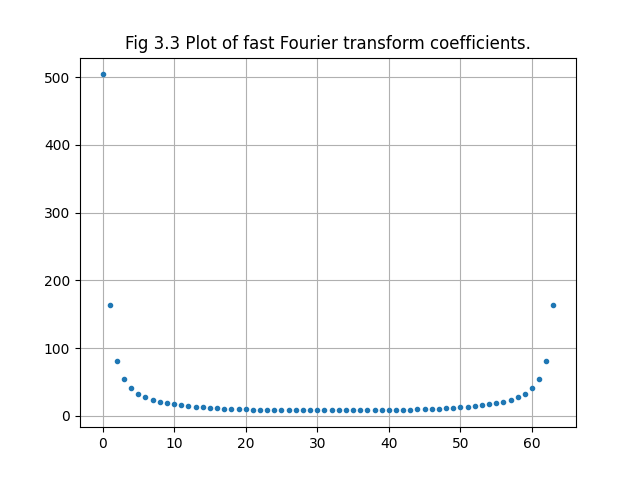
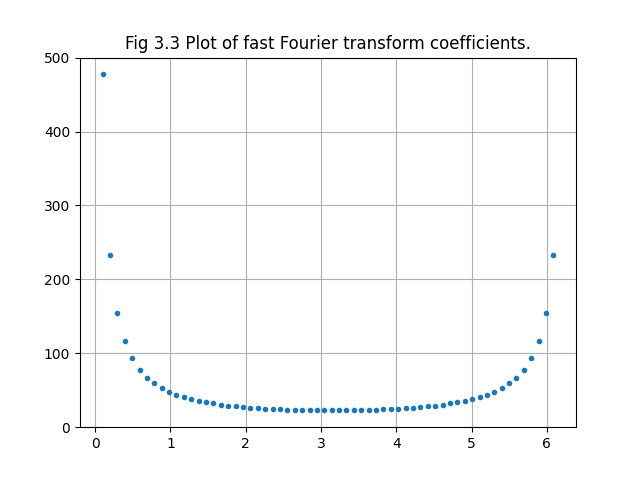
time range:0~2pi

diff --git a/fft_math.py b/fft_math.py
@@ -43,16 +43,16 @@ print(fft) # tensor([ 7.+0.j,  0.-1.j, -3.+0.j,  0.+1.j])
 
 ### Example 3 : Experiment Example 3.5 in [A First Course in Wavelets with Fourier Analysis-Wiley], Albert Boggess, 2009
 def function(t) :
-    return t + t^2
+    return t + t**2
 
 N = 64
-timepoints = torch.arange(N)
+timepoints = torch.arange(0, 2*np.pi, 2*np.pi/N, dtype=float)
 signal = torch.tensor([function(k) for k in timepoints])
 
-fft = torch.fft.fft(signal) / 8
+fft = torch.fft.fft(signal)
 fft_magnitude = abs(fft)
 
 plt.title("Fig 3.3 Plot of fast Fourier transform coefficients.")
-plt.plot(timepoints, fft_magnitude, ".")
+plt.plot(timepoints[1:-1], fft_magnitude[1:-1], ".")
 plt.grid()
 plt.savefig("fft_math3.png")
